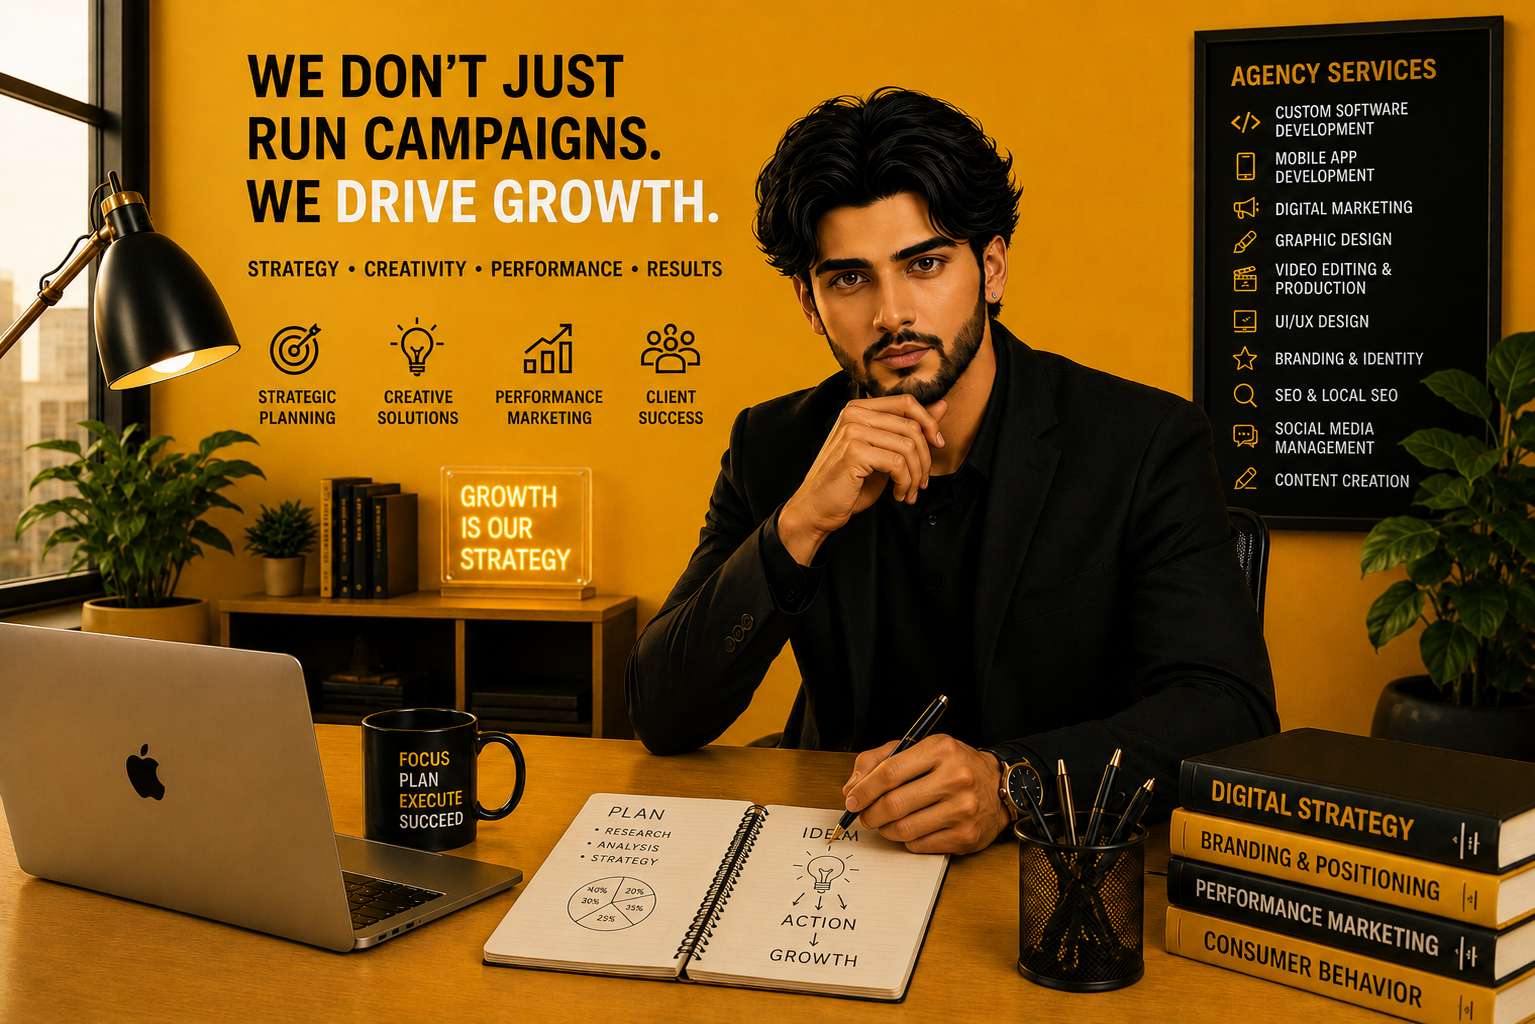
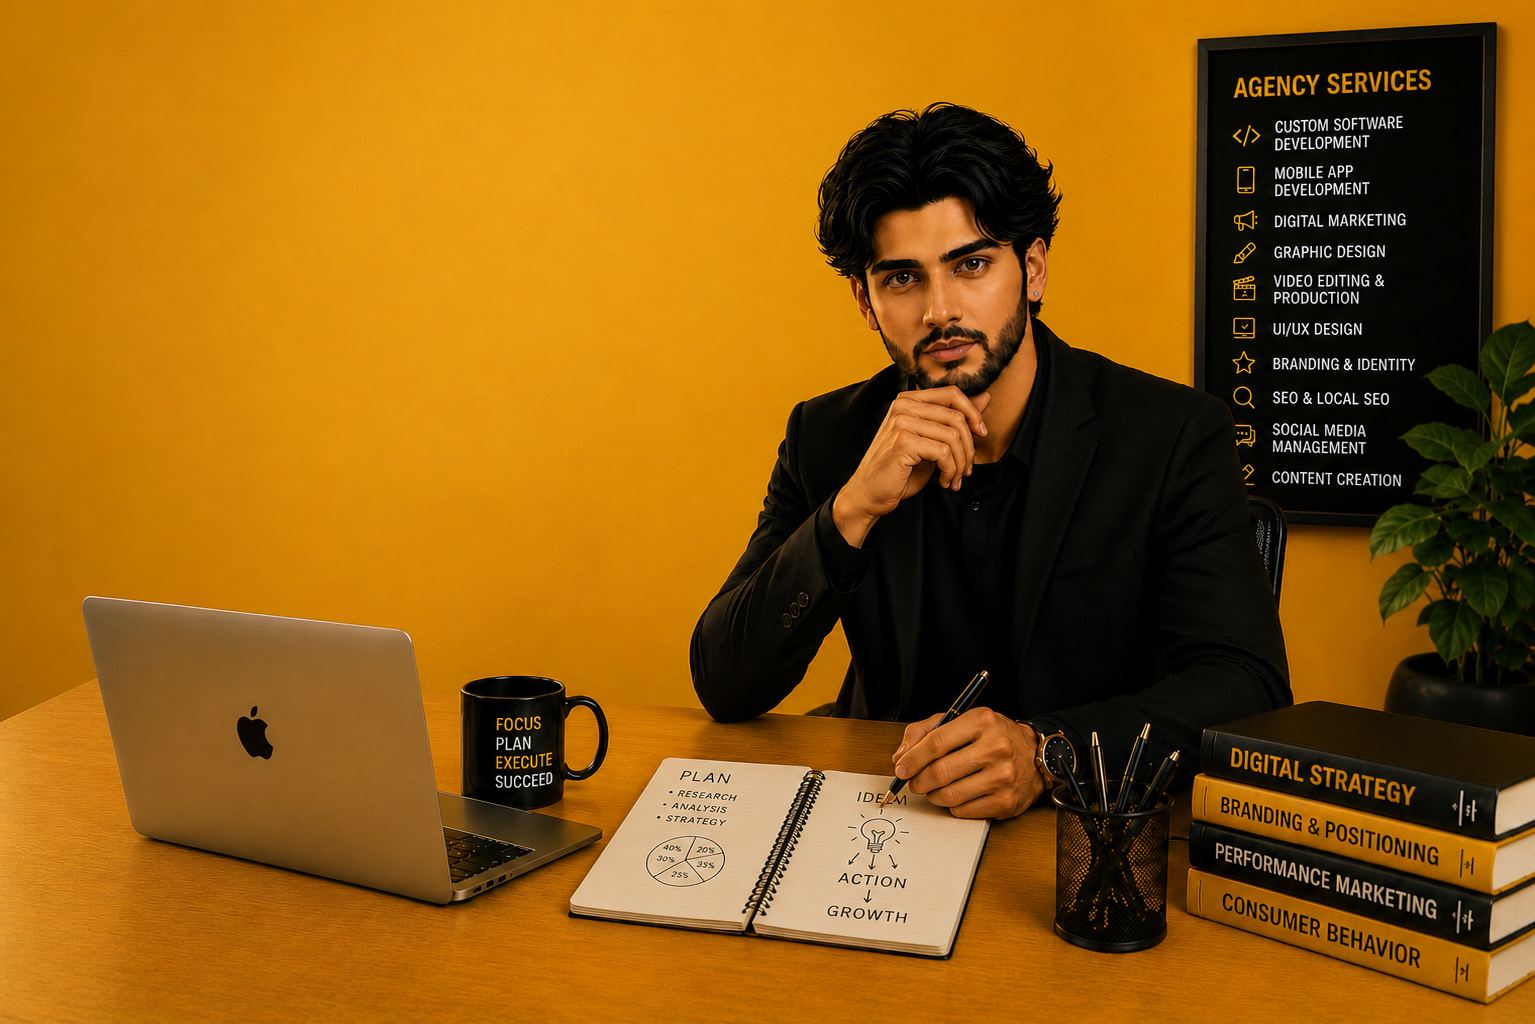
Hero Section Update

diff --git a/assets/js/runtime/offline.js b/assets/js/runtime/offline.js
@@ -121,6 +121,6 @@
     rewriteExistingAttributes();
     removeExportedBadges();
   }
-})();
 
   new MutationObserver(removeExportedBadges).observe(document.documentElement, { childList: true, subtree: true });
+})();